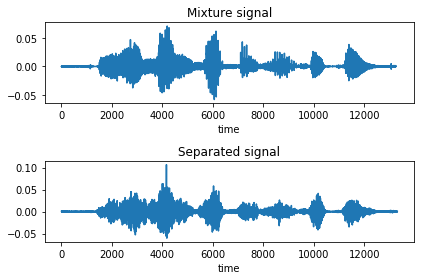
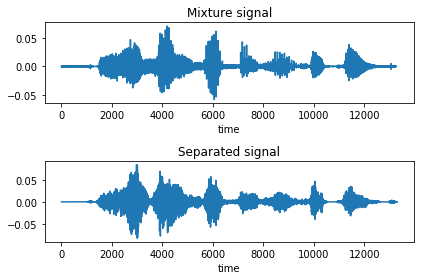
Add files via upload

Changed region(s): [[0.1226, 0.5714, 0.9505, 0.8571], [0.0307, 0.5714, 0.092, 0.8571]]

diff --git a/Feedforward/train_net.py b/Feedforward/train_net.py
@@ -14,6 +14,8 @@ from os import chdir, getcwd
 wd=getcwd()
 chdir(wd)
 
+del wd
+
 #%%
 
 #Import DataGenerator2 class in Datagenerator folder
@@ -181,6 +183,7 @@ del i, loss1, accuracy1, intermediate_accuracy, intermediate_loss, epoch
 del foldername, model_checkpoint
 del save_path, learning_rate, n_classes, n_features, n_neurons_in_h1, n_neurons_in_h2
 del Y_labels, data, tr_features
+del total_batches, merged_summary, batch_size
 
 #%% Plot training accuracy and loss
 import matplotlib.pyplot as plt
@@ -209,7 +212,7 @@ plt.close(fig)
 
 #%%
 
-del training_epochs, accuracy_results, loss_results
+del training_epochs, accuracy_results, loss_results 
 
 #%% Test network with unseen data
 
@@ -250,7 +253,7 @@ wav_recovered = data_generator.istft(testspectrogram1, sampling_rate, frame_size
 wav_recovered = wav_recovered * 5
 
 #See wav file
-plt.figure(1)
+fig = plt.figure() 
 
 #sub plot 1 - Original signal
 ax1 = plt.subplot(211)
@@ -265,6 +268,7 @@ plt.xlabel('time')
 plt.title('recovered signal')
 
 plt.show() 
+plt.close(fig)
 
 #%% remove unused variables
 
@@ -273,7 +277,7 @@ del testspectrogram1, wav_recovered
 #%% Create ibm from model
 
 #Data for model
-ts_features = testdata['Sample']
+ts_features = testdata['Sample'][testdata['VAD']]
   
 #Previously saved model 
 model_checkpoint = "./model.chkpt"
@@ -290,23 +294,47 @@ with tf.Session() as sess:
     # get inferred ibm using trained model
     ibm_batch = sess.run([a], feed_dict={X: ts_features})
         
-    #append ibm from batch to previous ibms
-    #ibm.append(ibm_batch[0])
  
 #Convert list to array       
-ibm = np.concatenate([item for item in ibm_batch], axis=0)
+ibm_array = np.concatenate([item for item in ibm_batch], axis=0)
 
 #Round each point to 0 or 1
-ibm = (np.round(ibm, 0)).astype(int)
+ibm_array = (np.round(ibm_array, 0)).astype(int)
 
+#Add extra points to IBM where VAD is 0
+vad = np.where(testdata['VAD'] == False)[0]
+vad1 = np.subtract(vad, np.asarray(range(vad.shape[0])))
+ibm = np.insert(ibm_array, vad1, 0, axis=0)
+
+
+#del ibm_array, vad, vad1
 
 #%% Show mask
 
-plt.figure() 
+fig = plt.figure() 
 plt.imshow(ibm.transpose(), cmap='Greys', interpolation='none')
 
+plt.tight_layout()
+fig.savefig("feedforwardibm2.png", bbox_inches="tight")
 plt.show()
+plt.close(fig)
 
+#%% Show VAD mask
+
+vad = np.tile(testdata['VAD'], (129, 1))
+
+fig = plt.figure() 
+
+plt.imshow(vad, cmap='Greys', interpolation='none', extent=[0,(209/129),129,0], aspect="auto")
+plt.xlabel('Time [sec]')
+plt.title('VAD matrix')
+
+plt.tight_layout()
+fig.savefig("feedforwardVAD.png", bbox_inches="tight")
+plt.show()
+plt.close(fig)
+
+del vad
 
 #%% Show original mixture spectrogram and mask
 
@@ -332,7 +360,12 @@ plt.close(fig)
 #%% apply ibm to signal and convert back into time domain
 
 #Convert spectrogram from log to normal
-split_spectrogram = np.power(10, ts_features)
+split_spectrogram1 = np.power(10, ts_features)
+
+#Add extra points to IBM whre VAD is 0
+vad = np.where(testdata['VAD'] == False)[0]
+vad1 = np.subtract(vad, np.asarray(range(vad.shape[0])))
+split_spectrogram = np.insert(split_spectrogram1, vad1, 0, axis=0)
 
 #Apply ibm to spectrogram
 split_spectrogram1 = np.multiply(split_spectrogram, ibm)
@@ -345,6 +378,8 @@ wav_recovered = data_generator.istft(split_spectrogram1, sampling_rate, frame_si
    
 #Amplify wav file
 wav_recovered = np.float32(wav_recovered * 5)
+
+del split_spectrogram1, vad, vad1
 
 #%% plot signal 
 
